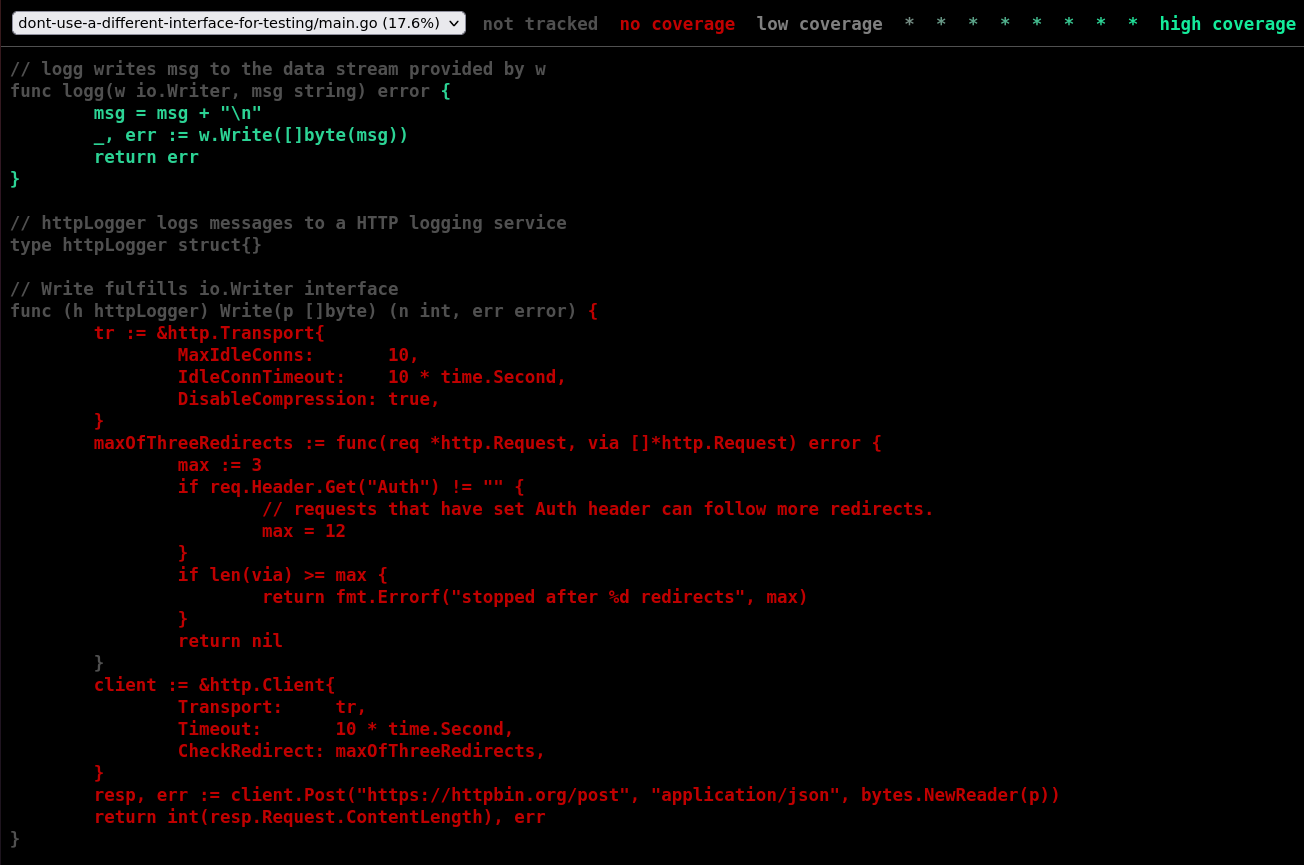
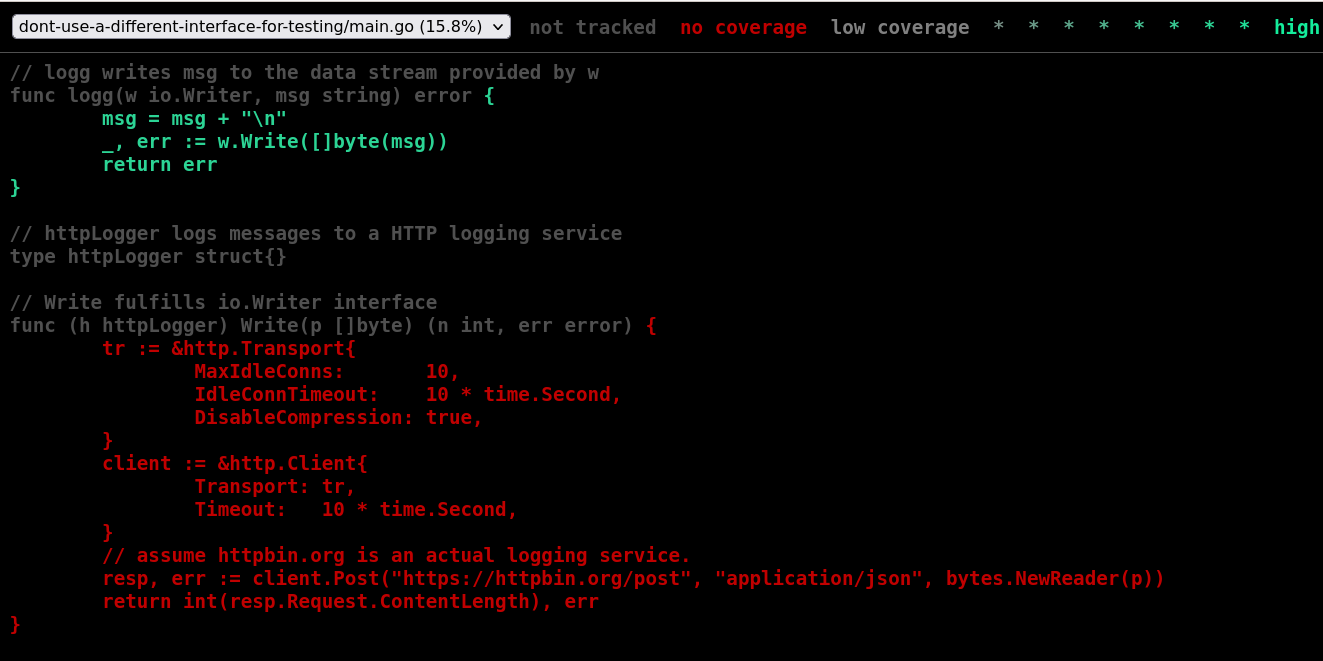
f

Changed region(s): [[0.0, 0.3328, 0.8896, 0.9682], [0.0, 0.0, 1.0, 0.3026], [0.0, 0.938, 0.0307, 0.9682]]

diff --git a/blogs/10/code/coverage.html b/blogs/10/code/coverage.html
@@ -55,7 +55,7 @@
 			<div id="nav">
 				<select id="files">
 				
-				<option value="file0">dont-use-a-different-interface-for-testing/main.go (17.6%)</option>
+				<option value="file0">dont-use-a-different-interface-for-testing/main.go (15.8%)</option>
 				
 				</select>
 			</div>
@@ -82,7 +82,6 @@
 
 import (
         "bytes"
-        "fmt"
         "io"
         "log"
         "net/http"
@@ -106,80 +105,51 @@ func (h httpLogger) Write(p []byte) (n int, err error) <span class="cov0" title=
                 IdleConnTimeout:    10 * time.Second,
                 DisableCompression: true,
         }
-        maxOfThreeRedirects := func(req *http.Request, via []*http.Request) error </span><span class="cov0" title="0">{
-                max := 3
-                if req.Header.Get("Auth") != "" </span><span class="cov0" title="0">{
-                        // requests that have set Auth header can follow more redirects.
-                        max = 12
-                }</span>
-                <span class="cov0" title="0">if len(via) &gt;= max </span><span class="cov0" title="0">{
-                        return fmt.Errorf("stopped after %d redirects", max)
-                }</span>
-                <span class="cov0" title="0">return nil</span>
+        client := &amp;http.Client{
+                Transport: tr,
+                Timeout:   10 * time.Second,
         }
-        <span class="cov0" title="0">client := &amp;http.Client{
-                Transport:     tr,
-                Timeout:       10 * time.Second,
-                CheckRedirect: maxOfThreeRedirects,
-        }
+        // assume httpbin.org is an actual logging service.
         resp, err := client.Post("https://httpbin.org/post", "application/json", bytes.NewReader(p))
-        return int(resp.Request.ContentLength), err</span>
-}
+        return int(resp.Request.ContentLength), err
+}</span>
 
 func main() <span class="cov0" title="0">{
-        err := logg(httpLogger{}, "hey-httpLogger")
+        err := logg(&amp;betterhttpLogger{}, "hey-httpLogger")
         if err != nil </span><span class="cov0" title="0">{
                 log.Fatal(err)
         }</span>
 }
 
-//
-// type betterhttpLogger struct {
-//         test struct {
-//                 enabled bool
-//                 written string
-//         }
-// }
+// betterhttpLogger logs messages to a HTTP logging service
+type betterhttpLogger struct {
+        test struct {
+                enabled bool
+                written string
+        }
+}
 
-// func (h *betterhttpLogger) Write(p []byte) (n int, err error) {
-//         tr := &amp;http.Transport{
-//                 MaxIdleConns:       10,
-//                 IdleConnTimeout:    10 * time.Second,
-//                 DisableCompression: true,
-//         }
-//         maxOfThreeRedirects := func(req *http.Request, via []*http.Request) error {
-//                 max := 3
-//                 if req.Header.Get("Auth") != "" {
-//                         // requests that have set Auth header can follow more redirects.
-//                         max = 12
-//                 }
-//                 if len(via) &gt;= max {
-//                         return fmt.Errorf("stopped after %d redirects", max)
-//                 }
-//                 return nil
-//         }
-//         client := &amp;http.Client{
-//                 Transport:     tr,
-//                 Timeout:       10 * time.Second,
-//                 CheckRedirect: maxOfThreeRedirects,
-//         }
-//         if h.test.enabled {
-//                 mockWriter := &amp;bytes.Buffer{}
-//                 n, err := mockWriter.Write(p)
-//                 h.test.written = mockWriter.String()
-//                 return n, err
-//         }
-//         resp, err := client.Post("https://httpbin.org/post", "application/json", bytes.NewReader(p))
-//         return int(resp.Request.ContentLength), err
-// }
-
-// In this version of the code, the only piece of code that is not tested ins just one line;
-//    `client.Post("https://httpbin.org/post", "application/json", bytes.NewReader(p))`
-// And guess what? Since it is calling code from the standard library, you can bet[https://github.com/golang/go/blob/go1.18.1/src/net/http/client_test.go#L134-L142] that it is one of
-// the most[https://github.com/golang/go/blob/go1.18.1/src/net/http/client_test.go#L606-L621] heavily tested functionality out there. So you don't have to re-test that which the Go team has/is already testing.
-//
-// If you have one interface implementation that you use in your 'real' application and another implementation that you use in tests; you are probably doing it wrong.
-// You should, in my opinion, use just one interface implementation for both application and tests. The implementation should behave a bit different conditionally on whether you are running tests or not.
+// Write fulfills io.Writer interface
+func (h *betterhttpLogger) Write(p []byte) (n int, err error) <span class="cov0" title="0">{
+        tr := &amp;http.Transport{
+                MaxIdleConns:       10,
+                IdleConnTimeout:    10 * time.Second,
+                DisableCompression: true,
+        }
+        client := &amp;http.Client{
+                Transport: tr,
+                Timeout:   10 * time.Second,
+        }
+        if h.test.enabled </span><span class="cov0" title="0">{
+                mockWriter := &amp;bytes.Buffer{}
+                n, err := mockWriter.Write(p)
+                h.test.written = mockWriter.String()
+                return n, err
+        }</span>
+        // assume httpbin.org is an actual logging service.
+        <span class="cov0" title="0">resp, err := client.Post("https://httpbin.org/post", "application/json", bytes.NewReader(p))
+        return int(resp.Request.ContentLength), err</span>
+}
 </pre>
 		
 		</div>

diff --git a/blogs/10/dont-use-a-different-interface-for-testing.html b/blogs/10/dont-use-a-different-interface-for-testing.html
@@ -81,21 +81,9 @@ func (h httpLogger) Write(p []byte) (n int, err error) {
         IdleConnTimeout:    10 * time.Second,
         DisableCompression: true,
     }
-    maxOfThreeRedirects := func(req *http.Request, via []*http.Request) error {
-        max := 3
-        if req.Header.Get("Auth") != "" {
-            // requests that have set Auth header can follow more redirects.
-            max = 12
-        }
-        if len(via) >= max {
-            return fmt.Errorf("stopped after %d redirects", max)
-        }
-        return nil
-    }
     client := &http.Client{
         Transport:     tr,
         Timeout:       10 * time.Second,
-        CheckRedirect: maxOfThreeRedirects,
     }
     // assume httpbin.org is an actual logging service.
     resp, err := client.Post("https://httpbin.org/post", "application/json", bytes.NewReader(p))
@@ -171,21 +159,9 @@ func (h *betterhttpLogger) Write(p []byte) (n int, err error) {
         IdleConnTimeout:    10 * time.Second,
         DisableCompression: true,
     }
-    maxOfThreeRedirects := func(req *http.Request, via []*http.Request) error {
-        max := 3
-        if req.Header.Get("Auth") != "" {
-            // requests that have set Auth header can follow more redirects.
-            max = 12
-        }
-        if len(via) >= max {
-            return fmt.Errorf("stopped after %d redirects", max)
-        }
-        return nil
-    }
     client := &http.Client{
         Transport:     tr,
         Timeout:       10 * time.Second,
-        CheckRedirect: maxOfThreeRedirects,
     }
     if h.test.enabled {
         mockWriter := &bytes.Buffer{}
@@ -238,8 +214,9 @@ http.Client.Post("https://httpbin.org/post", "application/json", bytes.NewReader
             the <a target="_blank" rel="noopener"
                 href="https://github.com/golang/go/blob/go1.18.1/src/net/http/client_test.go#L606-L621">most</a> heavily
             tested functionality out there. So you don't have to re-test that which the Go team has already
-            tested.</br></br>
-
+            tested.</br>
+            Here's the test coverage of this version:</br></br>
+            <img src="./imgs/betterHttp-test-coverage.png" alt="test coverage for mock interfaces"></br></br>
 
             In conclusion, if you have one interface implementation that you use in your 'real' application and another
             implementation that you use in tests; you are probably doing it wrong.</br>

diff --git a/blogs/10/code/main.go b/blogs/10/code/main.go
@@ -2,7 +2,6 @@ package main
 
 import (
 	"bytes"
-	"fmt"
 	"io"
 	"log"
 	"net/http"
@@ -26,77 +25,48 @@ func (h httpLogger) Write(p []byte) (n int, err error) {
 		IdleConnTimeout:    10 * time.Second,
 		DisableCompression: true,
 	}
-	maxOfThreeRedirects := func(req *http.Request, via []*http.Request) error {
-		max := 3
-		if req.Header.Get("Auth") != "" {
-			// requests that have set Auth header can follow more redirects.
-			max = 12
-		}
-		if len(via) >= max {
-			return fmt.Errorf("stopped after %d redirects", max)
-		}
-		return nil
-	}
 	client := &http.Client{
-		Transport:     tr,
-		Timeout:       10 * time.Second,
-		CheckRedirect: maxOfThreeRedirects,
+		Transport: tr,
+		Timeout:   10 * time.Second,
 	}
+	// assume httpbin.org is an actual logging service.
 	resp, err := client.Post("https://httpbin.org/post", "application/json", bytes.NewReader(p))
 	return int(resp.Request.ContentLength), err
 }
 
 func main() {
-	err := logg(httpLogger{}, "hey-httpLogger")
+	err := logg(&betterhttpLogger{}, "hey-httpLogger")
 	if err != nil {
 		log.Fatal(err)
 	}
 }
 
-//
-// type betterhttpLogger struct {
-// 	test struct {
-// 		enabled bool
-// 		written string
-// 	}
-// }
+// betterhttpLogger logs messages to a HTTP logging service
+type betterhttpLogger struct {
+	test struct {
+		enabled bool
+		written string
+	}
+}
 
-// func (h *betterhttpLogger) Write(p []byte) (n int, err error) {
-// 	tr := &http.Transport{
-// 		MaxIdleConns:       10,
-// 		IdleConnTimeout:    10 * time.Second,
-// 		DisableCompression: true,
-// 	}
-// 	maxOfThreeRedirects := func(req *http.Request, via []*http.Request) error {
-// 		max := 3
-// 		if req.Header.Get("Auth") != "" {
-// 			// requests that have set Auth header can follow more redirects.
-// 			max = 12
-// 		}
-// 		if len(via) >= max {
-// 			return fmt.Errorf("stopped after %d redirects", max)
-// 		}
-// 		return nil
-// 	}
-// 	client := &http.Client{
-// 		Transport:     tr,
-// 		Timeout:       10 * time.Second,
-// 		CheckRedirect: maxOfThreeRedirects,
-// 	}
-// 	if h.test.enabled {
-// 		mockWriter := &bytes.Buffer{}
-// 		n, err := mockWriter.Write(p)
-// 		h.test.written = mockWriter.String()
-// 		return n, err
-// 	}
-// 	resp, err := client.Post("https://httpbin.org/post", "application/json", bytes.NewReader(p))
-// 	return int(resp.Request.ContentLength), err
-// }
-
-// In this version of the code, the only piece of code that is not tested ins just one line;
-//    `client.Post("https://httpbin.org/post", "application/json", bytes.NewReader(p))`
-// And guess what? Since it is calling code from the standard library, you can bet[https://github.com/golang/go/blob/go1.18.1/src/net/http/client_test.go#L134-L142] that it is one of
-// the most[https://github.com/golang/go/blob/go1.18.1/src/net/http/client_test.go#L606-L621] heavily tested functionality out there. So you don't have to re-test that which the Go team has/is already testing.
-//
-// If you have one interface implementation that you use in your 'real' application and another implementation that you use in tests; you are probably doing it wrong.
-// You should, in my opinion, use just one interface implementation for both application and tests. The implementation should behave a bit different conditionally on whether you are running tests or not.
+// Write fulfills io.Writer interface
+func (h *betterhttpLogger) Write(p []byte) (n int, err error) {
+	tr := &http.Transport{
+		MaxIdleConns:       10,
+		IdleConnTimeout:    10 * time.Second,
+		DisableCompression: true,
+	}
+	client := &http.Client{
+		Transport: tr,
+		Timeout:   10 * time.Second,
+	}
+	if h.test.enabled {
+		mockWriter := &bytes.Buffer{}
+		n, err := mockWriter.Write(p)
+		h.test.written = mockWriter.String()
+		return n, err
+	}
+	// assume httpbin.org is an actual logging service.
+	resp, err := client.Post("https://httpbin.org/post", "application/json", bytes.NewReader(p))
+	return int(resp.Request.ContentLength), err
+}

diff --git a/blogs/10/code/main_test.go b/blogs/10/code/main_test.go
@@ -22,22 +22,22 @@ func Test_logg(t *testing.T) {
 		}
 	})
 
-	// t.Run("betterhttpLogger", func(t *testing.T) {
-	// 	msg := "hey"
-	// 	w := &betterhttpLogger{test: struct {
-	// 		enabled bool
-	// 		written string
-	// 	}{enabled: true}}
-	// 	err := logg(w, msg)
-	// 	if err != nil {
-	// 		t.Fatalf("logg() got error = %v, wantErr = %v", err, nil)
-	// 		return
-	// 	}
+	t.Run("betterhttpLogger", func(t *testing.T) {
+		msg := "hey"
+		w := &betterhttpLogger{test: struct {
+			enabled bool
+			written string
+		}{enabled: true}}
+		err := logg(w, msg)
+		if err != nil {
+			t.Fatalf("logg() got error = %v, wantErr = %v", err, nil)
+			return
+		}
 
-	// 	gotMsg := w.test.written
-	// 	wantMsg := msg + "\n"
-	// 	if gotMsg != wantMsg {
-	// 		t.Fatalf("logg() got = %v, want = %v", gotMsg, wantMsg)
-	// 	}
-	// })
+		gotMsg := w.test.written
+		wantMsg := msg + "\n"
+		if gotMsg != wantMsg {
+			t.Fatalf("logg() got = %v, want = %v", gotMsg, wantMsg)
+		}
+	})
 }
